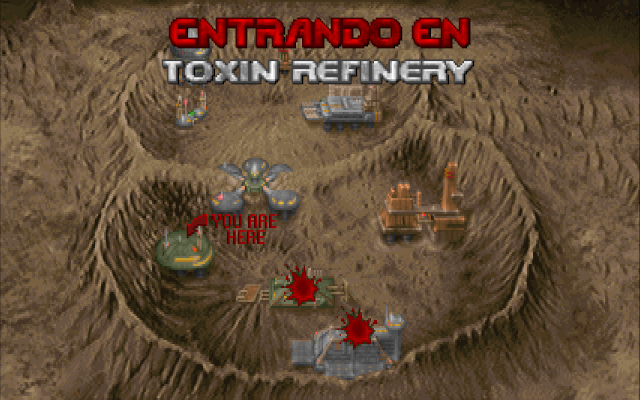
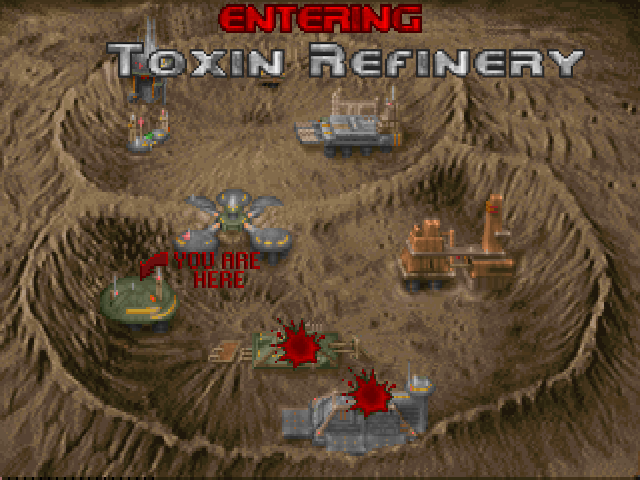
Tutu que habia subido una version de prueba xDDDDDD Soy tonto :D

diff --git a/DOOM/PauseMenu/PauseMenu.cpp b/DOOM/PauseMenu/PauseMenu.cpp
@@ -46,13 +46,13 @@ PauseMenu::PauseMenu(sf::RenderWindow* m_pRenderWindow) : m_pRenderWindow(m_pRen
         std::cout << "Error on load fondo hangar texture (Pausemenu.cpp)" << std::endl;
     }
     interNuclearSprite.setTexture(interNuclearTexture);
-    interNuclearSprite.scale(0.5f, 0.5f);
+    interNuclearSprite.scale(0.5f, 0.42f);
 
-    if (!interToxicTexture.loadFromFile("../../../../assets/LoadingScreens/IntermissionNuclearPlant.png")) {
+    if (!interToxicTexture.loadFromFile("../../../../assets/LoadingScreens/IntermissionToxic.png")) {
         std::cout << "Error on load fondo hangar texture (Pausemenu.cpp)" << std::endl;
     }
     interToxicSprite.setTexture(interToxicTexture);
-    interToxicSprite.scale(0.5f, 0.5f);
+    interToxicSprite.scale(0.5f, 0.42f);
 
 
 
